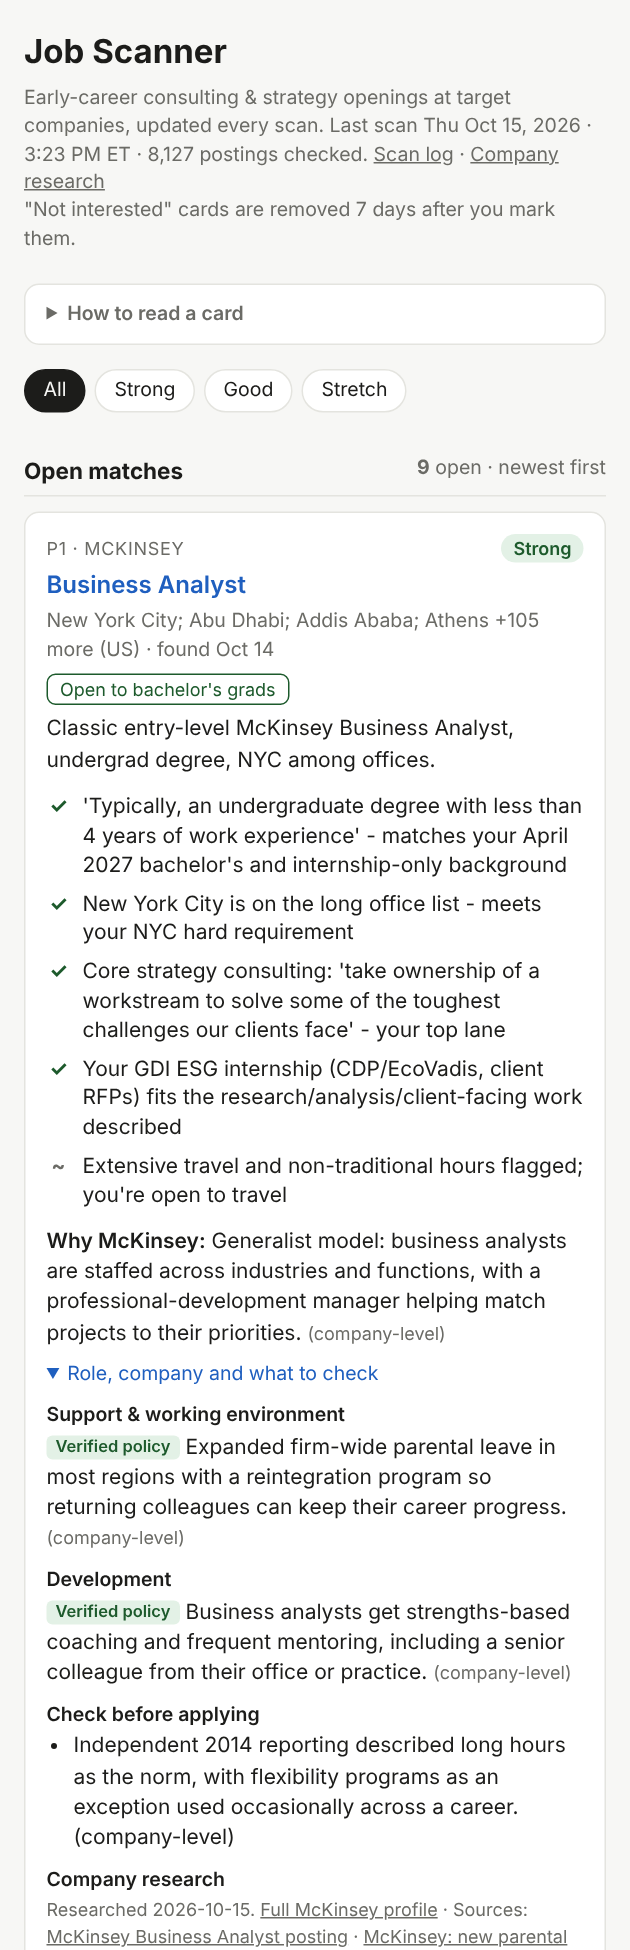
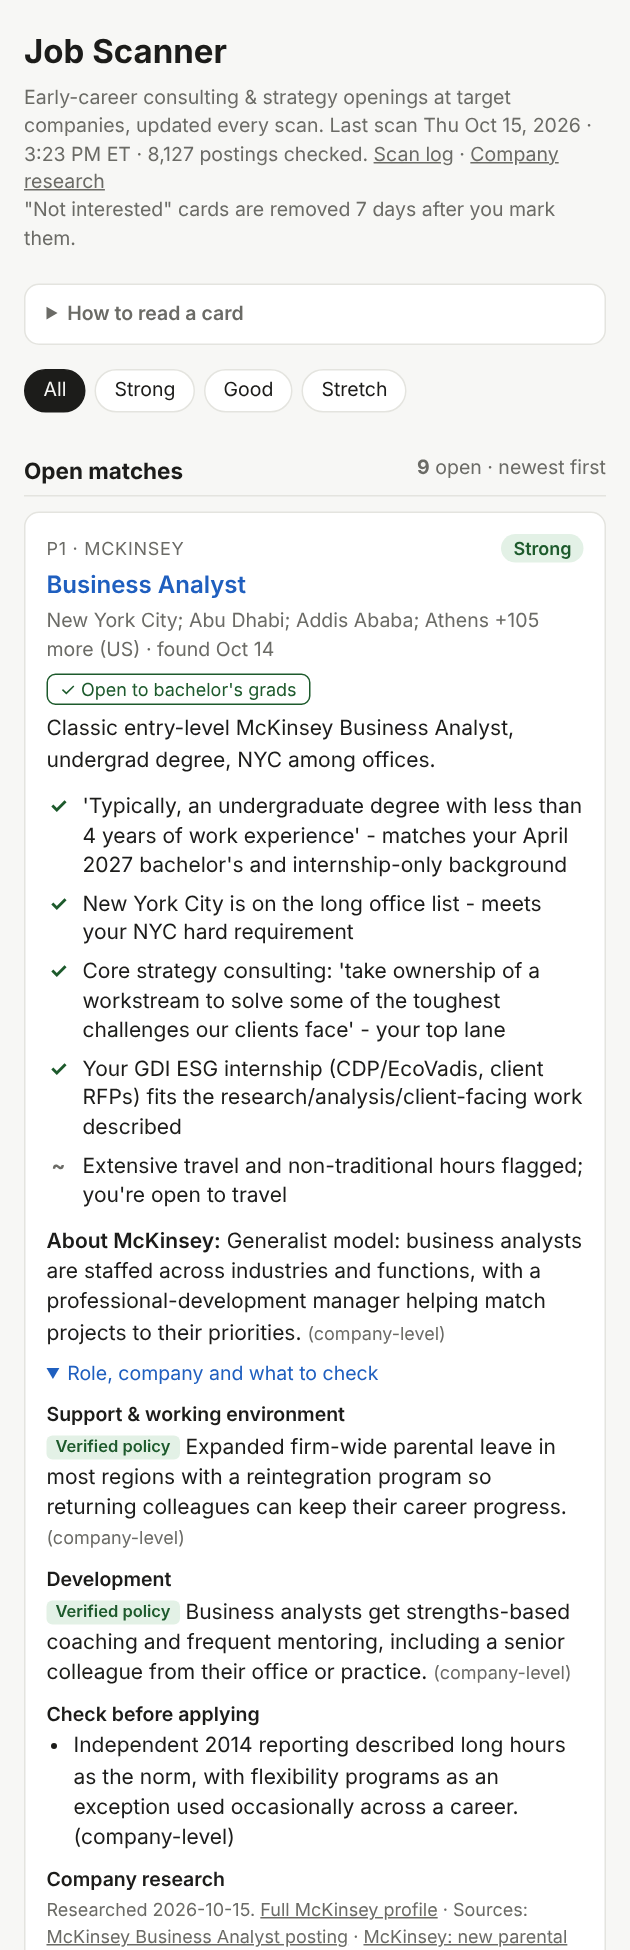
Review fixes: no dead ends on the page, clearer cards, Strong email after confirmation
- Private #token= link now works when pasted into a tab already showing the page
- Marking a card shows a notice with Undo (focus moves there for keyboard users) instead of
  the card silently disappearing into a collapsed section; errors use a separate red style
- One eligibility badge per card (no "unclear" beside "open to bachelor's grads"), hide
  "Company fit: Unknown", neutral style for provisional
- Company-level fallback headed "About <company>" so it never claims to explain the role
- Companies page: jump links to every company, Back to top, method note shown once
- A provisional match the AI later confirms as Strong now gets its email (once)
- README and screenshot updated to match

Claude-Session: https://claude.ai/code/session_016YmiFCn9BzqcExaiLHzASY

diff --git a/scanner/report.py b/scanner/report.py
@@ -85,7 +85,7 @@ a:focus-visible,button:focus-visible,summary:focus-visible{outline:2px solid var
 .badges{display:flex;gap:6px;flex-wrap:wrap;margin:6px 0 0}
 .badge{font-size:12px;padding:1px 8px;border-radius:6px;border:1px solid var(--line);color:var(--muted);white-space:nowrap}
 .badge.ok{color:var(--strong-ink);border-color:var(--strong-ink)}
-.badge.warn{color:var(--warn-ink);border-color:var(--warn-ink)}
+.badge.pend{color:var(--stretch-ink);border-color:var(--stretch-ink);background:var(--stretch-bg)}
 .whyco{margin:8px 0 0;font-size:14px}
 .whyco b{font-weight:600}
 details.more{margin-top:8px;color:var(--ink);font-size:14px}
@@ -102,8 +102,10 @@ details.more ul{margin:2px 0;padding-left:18px}
 .lvl{font-size:12px;color:var(--muted)}
 .srcs{font-size:12px;color:var(--muted)}
 .srcs a{color:var(--muted)}
-#saveMsg{position:sticky;top:0;z-index:2;margin:0;font-size:13px;padding:0}
-#saveMsg:not(:empty){background:var(--warn-bg);color:var(--warn-ink);padding:8px 12px;border-radius:8px;margin:0 0 10px}
+#saveMsg{position:sticky;top:8px;z-index:2;margin:0;font-size:14px;padding:0}
+#saveMsg:not(:empty){display:flex;gap:10px;align-items:center;justify-content:space-between;background:var(--ink);color:var(--bg);padding:10px 12px;border-radius:10px;margin:0 0 10px;box-shadow:0 2px 10px rgba(0,0,0,.18)}
+#saveMsg.err:not(:empty){background:var(--warn-bg);color:var(--warn-ink);box-shadow:none}
+#saveMsg button{font:inherit;font-size:13px;font-weight:600;background:none;color:inherit;border:1px solid currentColor;border-radius:8px;padding:5px 12px;cursor:pointer;min-height:36px;flex:none}
 .acts button[disabled]{opacity:.6;cursor:progress}
 .co-prof{background:var(--card);border:1px solid var(--line);border-radius:10px;padding:12px 14px;margin:0 0 14px}
 .co-prof h2{border:0;margin:0 0 6px;padding:0}
@@ -111,6 +113,13 @@ details.more ul{margin:2px 0;padding-left:18px}
 .co-prof ul{margin:0;padding-left:18px;font-size:14px}
 .co-prof li{margin:3px 0}
 .co-prof p{margin:4px 0;font-size:14px}
+.co-prof{scroll-margin-top:12px}
+.jump{display:flex;flex-wrap:wrap;gap:6px;margin:0 0 16px}
+.jump a{font-size:13px;color:var(--ink);text-decoration:none;border:1px solid var(--line);background:var(--card);border-radius:999px;padding:4px 10px}
+.jump a:hover{border-color:var(--ink)}
+.top-link{text-align:right;font-size:12px}
+.nw{white-space:nowrap}
+.top-link a{color:var(--muted)}
 """
 
 JS = r"""
@@ -124,12 +133,26 @@ document.querySelectorAll('.chips button').forEach(b=>b.addEventListener('click'
 // the token is kept in this browser and removed from the address bar.
 const LABEL={applied:'Applied',not_interested:'Not interested'};
 let TOKEN='';
-try{
+function readToken(){
   const m=location.hash.match(/token=([^&]+)/);
-  if(m){localStorage.setItem('statusToken',decodeURIComponent(m[1]));history.replaceState(null,'',location.pathname+location.search);}
-  TOKEN=localStorage.getItem('statusToken')||'';
-}catch(e){}
-const msg=t=>{const el=document.getElementById('saveMsg');if(el)el.textContent=t||'';};
+  if(m){TOKEN=decodeURIComponent(m[1]);history.replaceState(null,'',location.pathname+location.search);}
+  try{if(m)localStorage.setItem('statusToken',TOKEN);else TOKEN=TOKEN||localStorage.getItem('statusToken')||'';}catch(e){}
+  return !!m;
+}
+readToken();
+let msgTimer;
+function msg(t,opts){
+  const el=document.getElementById('saveMsg');if(!el)return;
+  clearTimeout(msgTimer);el.textContent='';el.className=opts&&opts.err?'err':'';
+  if(!t)return;
+  const span=document.createElement('span');span.textContent=t;el.append(span);
+  if(opts&&opts.undo){
+    const b=document.createElement('button');b.type='button';b.textContent='Undo';
+    b.addEventListener('click',()=>{msg('');opts.undo();});el.append(b);
+    if(opts.focus)b.focus();
+  }
+  if(!(opts&&opts.err))msgTimer=setTimeout(()=>{if(!el.contains(document.activeElement))el.textContent='';},8000);
+}
 function place(card,st){
   const s=st&&st.status;
   if(s){card.dataset.s=s;}else{delete card.dataset.s;}
@@ -159,19 +182,32 @@ function applyAll(data){
   document.querySelectorAll('.card[data-key]').forEach(c=>place(c,data[c.dataset.key]));
   counts();
 }
+async function mark(card,s,fromKeyboard){
+  const prev=card.dataset.s?{status:card.dataset.s,at:(card.querySelector('.stamp')||{}).textContent}:undefined;
+  const btns=card.querySelectorAll('.acts button');btns.forEach(b=>b.disabled=true);
+  const title=(card.querySelector('.title')||{}).textContent||'';
+  place(card,s?{status:s,at:new Date().toISOString().slice(0,10)}:undefined);counts();msg('');
+  try{
+    applyAll(await api('POST',{key:card.dataset.key,status:s}));
+    // The card has moved into a (possibly collapsed) section: confirm it and offer Undo here.
+    msg(s?`Marked ${LABEL[s]}: ${title}`:`Moved back to open matches: ${title}`,
+        {undo:()=>mark(card,prev?prev.status:null,true),focus:fromKeyboard});
+  }catch(e){place(card,prev);counts();
+    msg(e.status===401?'Not saved: this device has no access token. Open your private link (…/#token=…) once, then try again.'
+      :'Not saved - check your connection and try again.',{err:true});}
+  finally{btns.forEach(b=>b.disabled=false);}
+}
+function sync(){
+  api('GET').then(d=>{applyAll(d);const el=document.getElementById('saveMsg');if(el&&el.className==='err')msg('');})
+    .catch(e=>{if(e.status===401)msg('Marks are read-only on this device: open your private link (…/#token=…) once to enable saving.',{err:true});});
+}
 if(document.querySelector('.acts')){
-  api('GET').then(applyAll).catch(e=>{if(e.status===401)msg('Marks are read-only on this device: open your private link (…/#token=…) once to enable saving.');});
-  document.addEventListener('click',async ev=>{
+  sync();
+  // The private link pasted into a tab that already shows the page only changes the hash.
+  window.addEventListener('hashchange',()=>{if(readToken())sync();});
+  document.addEventListener('click',ev=>{
     const btn=ev.target.closest('.acts button');if(!btn||btn.disabled)return;
-    const card=btn.closest('.card');const s=btn.dataset.s||null;
-    const prev=card.dataset.s?{status:card.dataset.s}:undefined;
-    const btns=card.querySelectorAll('.acts button');btns.forEach(b=>b.disabled=true);
-    place(card,s?{status:s,at:new Date().toISOString().slice(0,10)}:undefined);counts();msg('');
-    try{applyAll(await api('POST',{key:card.dataset.key,status:s}));}
-    catch(e){place(card,prev);counts();
-      msg(e.status===401?'Not saved: this device has no access token. Open your private link (…/#token=…) once, then try again.'
-        :'Not saved - check your connection and try again.');}
-    finally{btns.forEach(b=>b.disabled=false);const f=card.querySelector(s?'.undo':'.mark');if(f)f.focus();}
+    mark(btn.closest('.card'),btn.dataset.s||null,ev.detail===0);
   });
 }
 """
@@ -251,18 +287,18 @@ def _short_loc(loc: str, keep: int = 4) -> str:
 
 def _badges(m: dict) -> str:
     out = []
-    elig = m.get("eligibility")
-    if elig == "eligible":
+    # One eligibility badge: the strongest thing the posting confirms, else "unclear".
+    if m.get("eligibility") == "eligible":
         out.append('<span class="badge ok">✓ Eligible on stated requirements</span>')
-    elif elig == "unclear" or m.get("undergrad") == "unclear":
-        out.append('<span class="badge">Eligibility unclear</span>')
-    if m.get("undergrad") == "yes":
-        out.append('<span class="badge ok">Open to bachelor\'s grads</span>')
+    elif m.get("undergrad") == "yes":
+        out.append('<span class="badge ok">✓ Open to bachelor\'s grads</span>')
+    elif m.get("eligibility") == "unclear" or m.get("undergrad") == "unclear":
+        out.append('<span class="badge">Eligibility not stated</span>')
     cf = m.get("company_fit")
-    if cf:
+    if cf in ("High", "Medium", "Low"):          # "Unknown" adds nothing to a card
         out.append(f'<span class="badge">Company fit: {e(cf)}</span>')
     if m.get("provisional"):
-        out.append('<span class="badge warn">Provisional: AI rating pending</span>')
+        out.append('<span class="badge pend">Provisional - AI rating pending</span>')
     return f'<div class="badges">{"".join(out)}</div>' if out else ""
 
 
@@ -276,7 +312,7 @@ def _more(m: dict, co: dict) -> tuple[str, str]:
         whyline = f'<p class="whyco"><b>Why {company}:</b> {e(why_co)}</p>'
     elif co.get("differentiator"):
         f = co["differentiator"]
-        whyline = (f'<p class="whyco"><b>Why {company}:</b> {e(f["text"])} '
+        whyline = (f'<p class="whyco"><b>About {company}:</b> {e(f["text"])} '
                    f'<span class="lvl">(company-level)</span></p>')
     rows = []
     if m.get("why_role"):
@@ -488,7 +524,11 @@ def write_log(site_dir: Path, runs: list[dict]) -> None:
 def write_companies(site_dir: Path, profiles: dict, summaries: dict) -> None:
     """companies.html: every researched profile with its evidence labels, unknowns and sources."""
     from .intel import SECTIONS
+    from collections import Counter
     blocks = []
+    first = lambda m: re.split(r"(?<=\.)\s", m or "", maxsplit=1)[0]
+    common = Counter(first(p.get("method")) for p in profiles.values()).most_common(1)
+    common_method = common[0][0] if common and common[0][1] > 1 else ""
     for name in sorted(profiles, key=str.lower):
         p = profiles[name]
         src = {x["id"]: x for x in p.get("sources", [])}
@@ -510,18 +550,25 @@ def write_companies(site_dir: Path, profiles: dict, summaries: dict) -> None:
                      f'{", accessed " + e(x["accessed"]) if x.get("accessed") else ""}</span></li>'
                      for x in src.values())
         fresh = FRESH.get((summaries.get(name) or {}).get("freshness", ""), "")
+        method = p.get("method", "")
+        note = method[len(common_method):].strip() if common_method and method.startswith(common_method) else method
         blocks.append(
             f'<section class="co-prof" id="{e(p["_slug"])}"><h2>{e(name)}</h2>'
-            f'<p class="lvl">Researched {e(p.get("researched_on", "?"))} · refresh after {e(p.get("refresh_after", "?"))}'
-            f'{" · " + e(fresh) if fresh else ""}{" · " + e(p["method"]) if p.get("method") else ""}</p>'
-            f'<p>{e(p.get("overview", ""))}</p>{"".join(secs)}<h3>Sources</h3><ul class="srcs">{sl}</ul></section>')
+            f'<p class="lvl">Researched <span class="nw">{e(p.get("researched_on", "?"))}</span> · refresh after '
+            f'<span class="nw">{e(p.get("refresh_after", "?"))}</span>{" · " + e(fresh) if fresh else ""}'
+            f'{" · " + e(note) if note else ""}</p>'
+            f'<p>{e(p.get("overview", ""))}</p>{"".join(secs)}<h3>Sources</h3><ul class="srcs">{sl}</ul>'
+            '<p class="top-link"><a href="#top">Back to top</a></p></section>')
+    jump = "".join(f'<a href="#{e(profiles[n]["_slug"])}">{e(n)}</a>' for n in sorted(profiles, key=str.lower))
     page = f"""<!doctype html><html lang="en"><head><meta charset="utf-8">
 <meta name="viewport" content="width=device-width,initial-scale=1"><meta name="robots" content="noindex">
-<title>Company Research</title><style>{CSS}</style></head><body><main>
+<title>Company Research</title><style>{CSS}</style></head><body><main id="top">
 <h1>Company research</h1>
 <p class="sub">What each company documents about itself, what independent sources add, and what is
 still unknown. A verified policy shows that a policy exists, not that every team practises it.
 Research is cached and reused by every scan; dates show how current it is. <a href="./">Back to matches</a></p>
+{f'<p class="sub">How it was gathered: {e(common_method)}</p>' if common_method else ""}
+{f'<nav class="jump" aria-label="Jump to a company">{jump}</nav>' if blocks else ""}
 {"".join(blocks) or '<p class="empty">No company profiles yet.</p>'}
 </main></body></html>"""
     (site_dir / "companies.html").write_text(page)

diff --git a/tests/test_upgrade.py b/tests/test_upgrade.py
@@ -437,6 +437,17 @@ class Scans(unittest.TestCase):
         self.assertTrue(tracked["Acme|5"]["provisional"])
         self.assertNotIn("Acme|5", self.state_json("pending.json"))
 
+    def test_provisional_confirmed_strong_gets_its_email_once(self):
+        self.listing = [job(8)]
+        self.run_scan()                                                   # AI down: provisional Good
+        self.assertEqual(self.emails, [])
+        self.rate = {"Acme|8": rating("Acme|8", rating="Strong")}
+        self.run_scan()
+        self.assertEqual(len(self.emails), 1)                             # confirmed Strong: email
+        self.assertEqual(len(self.alerts), 1)                             # no second phone alert
+        self.run_scan()
+        self.assertEqual(len(self.emails), 1)                             # never repeated
+
     def test_provisional_removed_when_ai_says_no(self):
         self.listing = [job(7)]
         self.run_scan()
@@ -498,7 +509,7 @@ class Page(unittest.TestCase):
         report.write_site(self.d, [full, bare], [], "https://s", [], {}, companies=summ, profiles={"Acme": p})
         html = (self.d / "index.html").read_text()
         for s in ("Eligible on stated requirements", "Company fit: High", "Specific edge", "Verified policy",
-                  "Travel?", "Provisional: AI rating pending", "Known for X.", "(company-level)",
+                  "Travel?", "Provisional - AI rating pending", "Known for X.", "(company-level)",
                   "may be out of date", 'href="companies#acme"', 'role="status"'):
             self.assertIn(s, html, s)
         comp = (self.d / "companies.html").read_text()

diff --git a/scanner/__main__.py b/scanner/__main__.py
@@ -386,7 +386,12 @@ def main(argv=None) -> int:
     dismissed = {k for k, v in status.items()
                  if isinstance(v, dict) and v.get("status") == "not_interested" and v.get("at", "9") <= dismiss_cutoff}
     fresh = [m for m in run_matches if m["key"] not in tracked and m["key"] not in dismissed]
-    mail_alerts = [m for m in fresh if m["rating"] in settings.get("email", {}).get("ratings", ["Strong"])]
+    mail_ratings = settings.get("email", {}).get("ratings", ["Strong"])
+    # Email new matches with an email-worthy rating, and provisional matches the AI has now
+    # confirmed at that rating (their phone alert went out when they first appeared).
+    confirmed = [m for m in run_matches if m["key"] in tracked and tracked[m["key"]].get("provisional")
+                 and not m.get("provisional") and tracked[m["key"]].get("rating") not in mail_ratings]
+    mail_alerts = [m for m in fresh + confirmed if m["rating"] in mail_ratings]
     texts = notify.compose(fresh, settings["site"]["url"], first_run=first_run and not tracked,
                            max_listed=settings["sms"]["max_listed"])
     run = {

diff --git a/README.md b/README.md
@@ -41,9 +41,9 @@ and what it doesn't.
 ![Results page on a phone: one match with its rating, pointers, company reason, and expanded
 company research with evidence labels](docs/results-page.png)
 
-*Rendered from the live state. This match was rated before the upgrade, so its company details
-are company-level research; matches rated from now on also get job-specific write-ups,
-eligibility and company-fit badges.*
+*Rendered from the live state with the new code. This match was rated before the upgrade, so its
+company details are company-level research ("About McKinsey"); matches rated from now on also get
+job-specific write-ups ("Why McKinsey"), eligibility and company-fit badges.*
 
 ## How it works
 
@@ -136,7 +136,8 @@ refresh date, or if an official page it watches changes.
 **Company research vs job scoring.** The profile is *context*. The AI rates the role from the
 posting itself, then writes job-specific "Why this company / support / development / check
 before applying" notes that may draw on the profile. Where a match has no job-specific note,
-the page shows the company-level finding and labels it "(company-level)".
+the page shows the company-level finding instead, headed "About <company>" and labelled
+"(company-level)", so it never claims to explain the specific role.
 
 **Cost controls.** No research happens during scans. Only profiles for companies in the current
 batch are sent, each capped at 2,200 characters (`[intel] prompt_chars`), and same-company
@@ -199,7 +200,7 @@ account, the ntfy phone app.
 ```bash
 git clone https://github.com/robbiecharlesschwartz-sudo/job-scanner && cd job-scanner
 python3 -m venv .venv && .venv/bin/pip install -r requirements.txt
-.venv/bin/python -m unittest discover -s tests      # 54 tests, no network
+.venv/bin/python -m unittest discover -s tests      # 55 tests, no network
 node --test tests/status.test.mjs                    # 6 API tests
 .venv/bin/python -m scanner.intel status             # company-profile coverage
 ```
@@ -295,16 +296,16 @@ Vercel redeploys when `site/`, `api/` or `vercel.json` change (`ignoreCommand`),
 Every card has **Applied** and **Not interested** (and Undo). A click calls `/api/status`, which
 commits the change to `state/status.json` through the GitHub API (retrying on conflicting
 writes), so marks sync across devices and every scan sees them. A marked card moves into its
-section immediately (and stays there on every device); if saving fails, an inline message says
-so and the card moves back.
+section immediately, and a notice at the top confirms it with an **Undo** button (keyboard users
+land on it). If saving fails, a red notice says why and the card moves back.
 "Not interested" cards leave the page 7 days after marking and never re-alert; the mark stays
 in `status.json` as the record.
 
 ## Security and privacy
 
 - **Status API authentication.** Set `STATUS_TOKEN` in Vercel, then open the page once on each
-  device as `https://<site>/#token=<STATUS_TOKEN>`. The page stores the token in that browser and
-  removes it from the address bar. Every GET and POST must then send it (`X-Status-Token`,
+  device as `https://<site>/#token=<STATUS_TOKEN>` (pasting it into a tab that already shows the
+  page works too). The page stores the token in that browser and removes it from the address bar. Every GET and POST must then send it (`X-Status-Token`,
   compared in constant time). **Without `STATUS_TOKEN` the endpoint is open to anyone who finds
   the URL**, which was the pre-upgrade behaviour and is kept only for backwards compatibility.
 - The API also refuses cross-site POSTs (Origin check), accepts only `company|id` keys and the two
